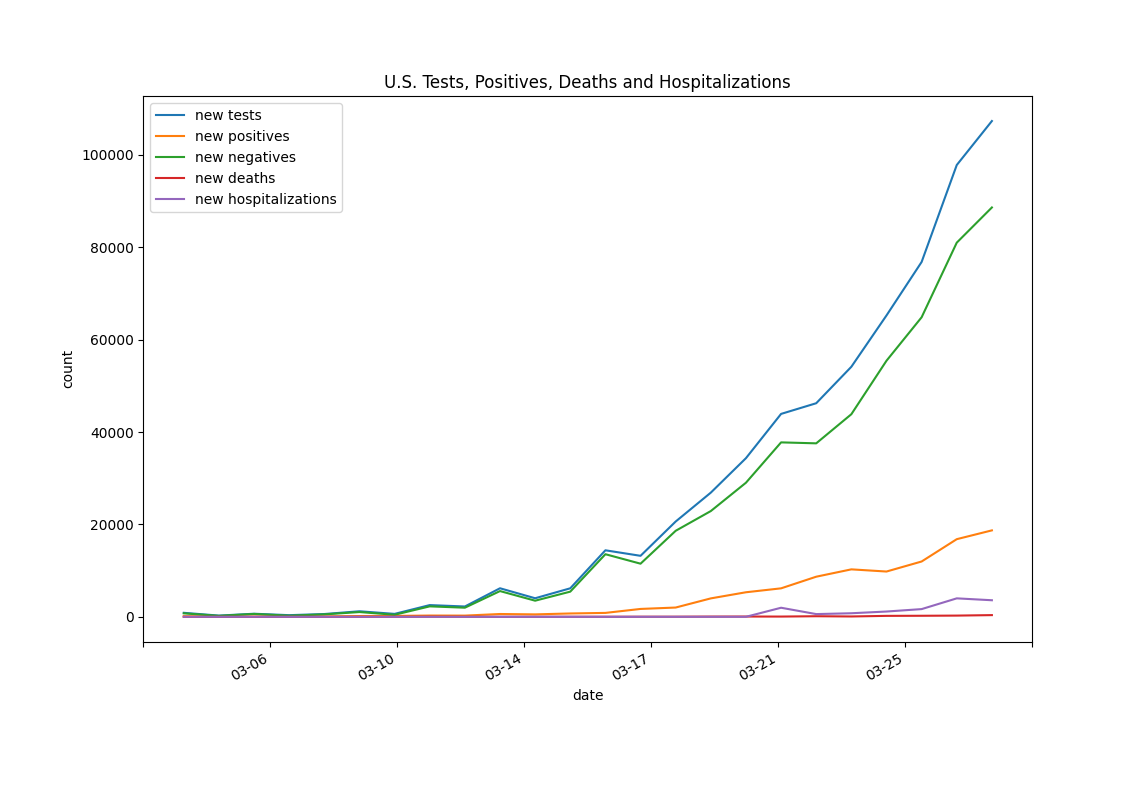
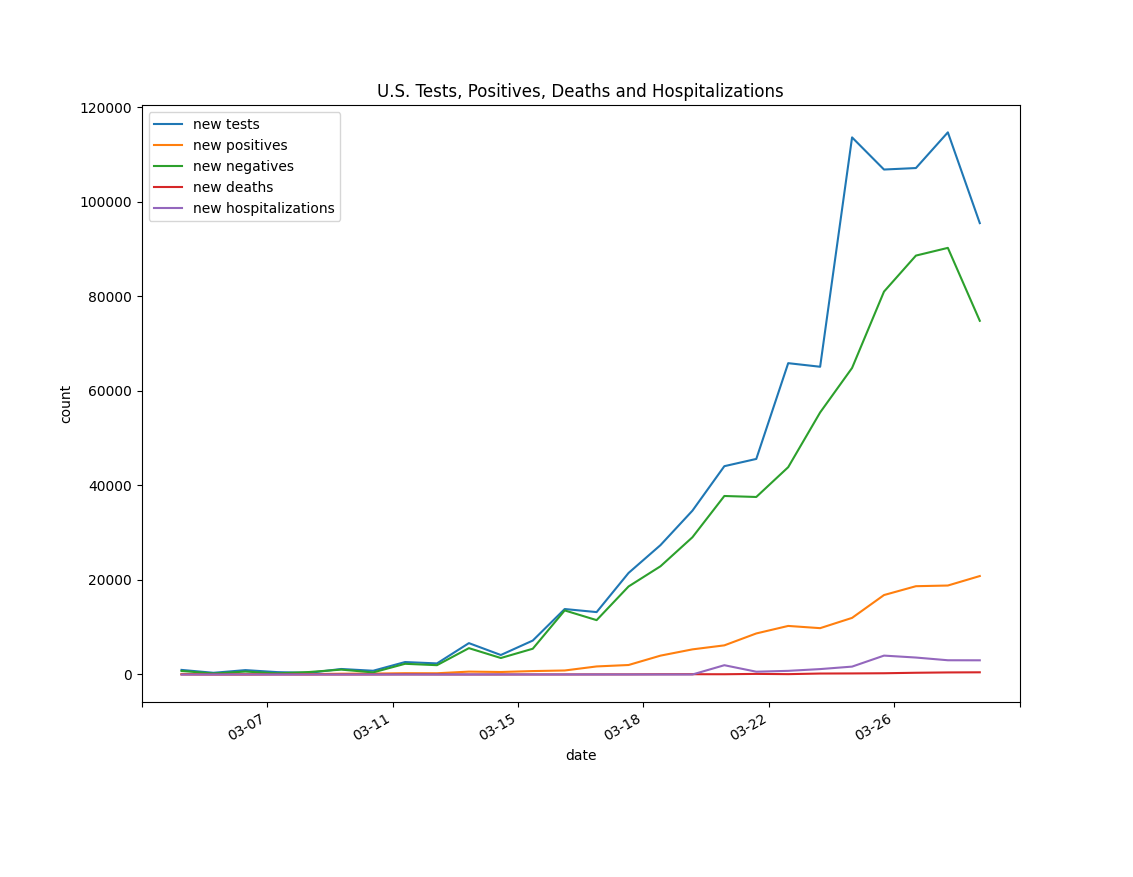
state level

diff --git a/analyze-us.py b/analyze-us.py
@@ -10,98 +10,109 @@ from collections import defaultdict
 url = 'https://covidtracking.com/api/states/daily'
 
 response = requests.get(url)
-
 if response.status_code != 200:
     print("URL ERROR")
     exit()
     
-data = json.loads(response.content.decode('utf-8'))
-for state in data:
-    print(
-        state['date'],
-        state['state'],
-        state['positive'],
-        state['negative'],
-        state['pending'],
-        state['hospitalized'],
-        state['death'],
-    )
+history_data = json.loads(response.content.decode('utf-8'))
+
+pos_dict = defaultdict(dict)
+neg_dict = defaultdict(dict)
+pending_dict = defaultdict(dict)
+hospitalized_dict = defaultdict(dict)
+deaths_dict = defaultdict(dict)
+
+for state in history_data:
     
-pos_dict = defaultdict(int)
-neg_dict = defaultdict(int)
-pending_dict = defaultdict(int)
-hospitalized_dict = defaultdict(int)
-deaths_dict = defaultdict(int)
-for state in data:
     date = state['date']
-    if state['positive'] != None:
-        pos_dict[date] += int(state['positive'])
-    if state['negative'] != None:
-        neg_dict[date] += int(state['negative'])
-    if state['pending'] != None:
-        pending_dict[date] += int(state['pending'])
-    if state['death'] != None:
-        deaths_dict[date] += int(state['death'])
-    if state['hospitalized'] != None:
-        hospitalized_dict[date] += int(state['hospitalized'])
+    state_abr = state['state']
+    status = defaultdict(int)
 
-dates = []
-positives = []
-negatives = []
-deaths= []
+    for key in ['positive', 'negative', 'pending',
+                'death', 'hospitalized']:        
+        if state[key] != None:
+            status[key] = int(state[key])
 
-tests = []
-test_diffs = []
+   # State Specific & US counts
+    for state_id in [state_abr, 'US']:
+        if date in pos_dict[state_id]:
+            pos_dict[state_id][date] += status['positive']
+            neg_dict[state_id][date] += status['negative']
+            pending_dict[state_id][date] += status['pending']
+            deaths_dict[state_id][date] += status['death']
+            hospitalized_dict[state_id][date] += status['hospitalized']
+        else:
+            pos_dict[state_id][date] = status['positive']
+            neg_dict[state_id][date] = status['negative']
+            pending_dict[state_id][date] = status['pending']
+            deaths_dict[state_id][date] = status['death']
+            hospitalized_dict[state_id][date] = status['hospitalized']
 
-hospitalized = []
 
-new_deaths = []
-new_tests = []
-new_positives = []
-new_negatives = []
-new_hospitalized = []
+dates = defaultdict(list)
+new_deaths = defaultdict(list)
+new_tests = defaultdict(list)
+new_positives = defaultdict(list)
+new_negatives = defaultdict(list)
+new_hospitalized = defaultdict(list)
 
-tests_prior = 0
-death_prior = 0
-pos_prior = 0
-neg_prior = 0
-hos_prior = 0
+positive_ratio = defaultdict(list)
+death_ratio = defaultdict(list)
+hospitalized_ratio = defaultdict(list)
 
-positive_ratio = []
-hospitalized_ratio = []
-
-for date in sorted(pos_dict):
-
-    dates.append(datetime.strptime(str(date), '%Y%m%d').strftime("%m-%d"))
+for state in pos_dict:
     
-    tests.append(pos_dict[date] + neg_dict[date])
-    deaths.append(deaths_dict[date])
-    positives.append(pos_dict[date])
-    negatives.append(neg_dict[date])    
-    hospitalized.append(hospitalized_dict[date])
+    tests_prior, death_prior = 0, 0
+    pos_prior, neg_prior, hos_prior = 0, 0, 0
 
-    new_tests.append(tests[-1] - tests_prior)
-    new_deaths.append(deaths[-1] - death_prior)
-    new_positives.append(positives[-1] - pos_prior)
-    new_negatives.append(negatives[-1] - neg_prior)
-    new_hospitalized.append(hospitalized[-1] - hos_prior)
-    
-    positive_ratio.append(new_positives[-1] / new_tests[-1])
-    hospitalized_ratio.append(new_hospitalized[-1] / new_tests[-1])
+    for date in sorted(pos_dict['US']):
 
-    tests_prior = tests[-1]
-    death_prior = deaths[-1]
-    pos_prior = positives[-1]
-    neg_prior = negatives[-1]
-    hos_prior = hospitalized[-1]
+        deaths, positives, negatives = 0, 0, 0
+        pending, hospitalized = 0, 0
 
+        if date in pos_dict[state]:
+            
+            deaths = deaths_dict[state][date]
+            positives = pos_dict[state][date]
+            negatives = neg_dict[state][date]
+            pending = pending_dict[state][date]
+            hospitalized = hospitalized_dict[state][date]
+        
+        test_count = positives + negatives + pending
+        
+        dates[state].append(datetime.strptime(str(date), '%Y%m%d').strftime("%m-%d"))
+        new_tests[state].append(test_count - tests_prior)
+        new_deaths[state].append(deaths - death_prior)
+        new_positives[state].append(positives - pos_prior)
+        new_negatives[state].append(negatives - neg_prior)
+        new_hospitalized[state].append(hospitalized - hos_prior)
+
+        p_ratio, d_ratio, h_ratio = 0.0, 0.0, 0.0
+        if new_tests[state][-1] > 0:
+            p_ratio = positives / test_count
+            d_ratio = deaths / test_count
+            h_ratio = hospitalized / test_count
+        positive_ratio[state].append(p_ratio)
+        death_ratio[state].append(d_ratio)
+        hospitalized_ratio[state].append(h_ratio)
+
+        tests_prior = test_count
+        death_prior = deaths
+        pos_prior = positives
+        neg_prior = negatives
+        hos_prior = hospitalized
+
+
+
+# Raw numbers country wide
 fig, ax = plt.subplots()
 
-ax.plot(dates, new_tests, label='new tests')
-ax.plot(dates, new_positives, label='new positives')
-ax.plot(dates, new_negatives, label='new negatives')
-ax.plot(dates, new_deaths, label='new deaths')
-ax.plot(dates, new_hospitalized, label='new hospitalizations')
+state = 'US'
+ax.plot(dates[state], new_tests[state], label='new tests')
+ax.plot(dates[state], new_positives[state], label='new positives')
+ax.plot(dates[state], new_negatives[state], label='new negatives')
+ax.plot(dates[state], new_deaths[state], label='new deaths')
+ax.plot(dates[state], new_hospitalized[state], label='new hospitalizations')
 
 N = 8
 xmin, xmax = ax.get_xlim()
@@ -115,16 +126,105 @@ fig.autofmt_xdate()
 plt.show()
 
 
-fig, ax = plt.subplots()
 
-ax.plot(dates, positive_ratio, label='positive test ratio')
-ax.plot(dates, hospitalized_ratio, label='hospitalization ratio')
+# Raw numbers country wide, LOG
+fig, ax = plt.subplots()
+ax.set_yscale('log')
+
+state = 'US'
+ax.plot(dates[state], new_tests[state], label='new tests')
+ax.plot(dates[state], new_positives[state], label='new positives')
+ax.plot(dates[state], new_negatives[state], label='new negatives')
+ax.plot(dates[state], new_deaths[state], label='new deaths')
+ax.plot(dates[state], new_hospitalized[state], label='new hospitalizations')
 
 N = 8
 xmin, xmax = ax.get_xlim()
 ax.set_xticks(np.round(np.linspace(xmin, xmax, N), 2))
 
+plt.title("U.S. Tests, Positives, Deaths and Hospitalizations")
+plt.xlabel("date")
+plt.ylabel("count")
+plt.legend()
+fig.autofmt_xdate()
+plt.show()
+
+
+
+
+# Testing ratio graphs
+fig, ax = plt.subplots()
+state = 'US'
+ax.plot(dates[state], positive_ratio[state], label='positive to test ratio')
+ax.plot(dates[state], death_ratio[state], label='mortality to test ratio')
+ax.plot(dates[state], hospitalized_ratio[state], label='hospitalization to test ratio')
+
+N = 8
+xmin, xmax = ax.get_xlim()
+
+ax.set_xticks(np.round(np.linspace(xmin, xmax, N), 2))
 plt.title("U.S. Ratio of Positive Test Results")
+plt.xlabel("date")
+plt.ylabel("positive test percentage")
+plt.legend()
+fig.autofmt_xdate()
+plt.show()
+
+
+
+
+# Testing by U.S. State
+fig, ax = plt.subplots()
+
+top_testing = {}
+for state in new_tests:
+    top_testing[state] = sum(new_tests[state])
+top_testing = sorted(top_testing.items(), key=lambda x: x[1], reverse=True)
+
+state_test_totals = {}
+top = []
+split = 10
+for state, total_tests in top_testing[:split]:
+    top.append(state)
+    state_test_totals[state] = total_tests
+
+for i in range(len(new_tests['US'])):
+    tests_on_date = 0
+    for state, total_tests in top_testing[split:]:
+        tests_on_date += new_tests[state][i]
+    new_tests['remaining'].append(tests_on_date)
+    dates['remaining'].append(dates['US'][i])
+state_test_totals['remaining'] = sum(new_tests['remaining'])
+
+# top[1:] excludes US total
+for state in top[1:] + ['remaining']:
+    ax.plot(dates[state], new_tests[state],
+            label=state+' tests ('+f'{state_test_totals[state]:,}'+')')
+
+N = 8
+xmin, xmax = ax.get_xlim()
+ax.set_xticks(np.round(np.linspace(xmin, xmax, N), 2))
+
+plt.title("Testing by U.S. State")
+plt.xlabel("date")
+plt.ylabel("count")
+plt.legend()
+fig.autofmt_xdate()
+plt.show()
+
+
+# Testing ratio graphs
+fig, ax = plt.subplots()
+for state in top + ['US']:
+    avg_ratio = round(sum(positive_ratio[state]) / len(positive_ratio[state]), 3)
+    ax.plot(dates[state], positive_ratio[state],
+            label=state+' (Ratio: '+f'{avg_ratio}' +
+            ', Tests: ' + f'{state_test_totals[state]:,}' +')')
+N = 8
+xmin, xmax = ax.get_xlim()
+
+ax.set_xticks(np.round(np.linspace(xmin, xmax, N), 2))
+plt.title("U.S. State Ratio of Positive Test Results")
 plt.xlabel("date")
 plt.ylabel("positive test percentage")
 plt.legend()
